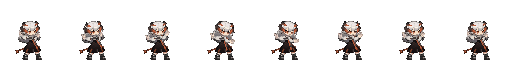
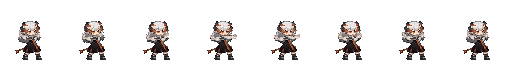
塞雷娅 S3 冲拳：按两节 IK 反算，手腕沿肩高水平直线推出（用户 10-24 嫌像捶）

diff --git a/tools/op_1x/native_extra.py b/tools/op_1x/native_extra.py
@@ -42,9 +42,11 @@ def hoshiguma():
 # 不拉长、不放大（用户：放大显得奇怪）；蓄力只收到腰前，不抬过胸（用户：举过头奇怪）。
 # 帧数 / 出手帧与普攻条相同（8 帧，第 4 帧出手），时序由 json 抄普攻的 attack_timing。
 # 每帧：(前手上臂, 前手前臂, 后手上臂, 胸, 前手提到上层) ；角度为转角增量（度）
-PUNCH = [(-45, 55, 0, 0, False), (-40, 62, 15, 4, False), (-8, 20, 25, 0, True),   # 起势：前手放到腰前（原生 Loop 站姿双手抬在脸侧，用户 10-24「第一帧还是举着双手」）
-         (-38, -2, 30, -14, True), (-36, -2, 30, -12, True), (-15, 15, 20, -5, True),
-         (-30, 40, 8, 0, False), (-45, 55, 0, 0, False)]
+# 直拳轨迹（10-24 用户「现在像是捶，不像是直拳」）：手腕沿肩高水平线直线推出，按两节 IK 反算（肩 (96, 128.4)、上臂 4.35 px、前臂 3.83 px，
+# 肘在下；转角换算见 docs/140 §7.2）。手腕 x：100.7 起势 → 99.5 收拳 → 101.6 → 104.0 打满 → 回收
+PUNCH = [(-45, 55, 0, 0, False), (-52, 75, 15, 2, False), (-33, 39, 25, -2, True),
+         (0, -30, 30, -5, True), (-5, -20, 30, -4, True), (-28, 27, 20, -2, True),
+         (-42, 51, 8, 0, False), (-45, 55, 0, 0, False)]
 GUARD = (-45, 55)   # 前手放到腰前的转角（上臂, 前臂）
 SARIA_HIDE = ["F_Shield", "F_Weapon", "F_Pinhead"]   # 盾 / 武器已放下
 SARIA_FRONT_ARM = ["F_L_Arm", "F_L_Shoulder", "F_L_Wrap", "F_L_Ring", "F_L_Hand_C", "F_L_Hand_B", "F_L_Hand", "F_L_Finger", "F_L_Finger_2"]

diff --git a/docs/140_op_anim_audit.md b/docs/140_op_anim_audit.md
@@ -121,5 +121,5 @@ python -X utf8 tools/op_1x/native_extra.py --only hoshiguma,saria               
 - **新帧条**：`op_saria_skill_s3_attack`、`op_saria_move_skill_s3_attack`。json 里时序抄普攻的 `attack_timing`，序列加 `"attack": "skill_s3_attack"`。
 - **代码**：`character._move_swap` 允许技能循环里的普攻变体（`sq_atk`）在移动中换跑动版；`_sq_atk_yield` 在变体有跑动版时不让位。
 - **结果**：录像（`build/anim_move/v2/saria_2.gif`，技能期间照常普攻、走停来回）里循环段的出拳 205 帧，其中移动中 112 帧换成跑动拳击；不出拳时站着播循环、移动播空手跑。
-- **定稿：冲拳**（用户依次反馈「看不太出来双手，能不能手往前伸」→「拳头好像太大了」→「都不要放大」→「第一帧双手举过头有点奇怪」→「拳击就改成冲拳」）：前手（左臂）直线打出，后手收到腰侧，胸口前倾 14°；打出的几帧把前臂画在白毛领上层，1 倍下能看出拳头。不拉长不放大，蓄力只收到腰前。原作 Skill_Loop 站姿双手抬在脸侧（用户：「为什么第一帧还是举着双手」），冲拳起势 / 收势、循环段、空手跑统一把前手放到腰前（上臂 -45°、前臂 +55°，`native_extra.py GUARD`），出拳前后不跳。中途试过双拳前推、手臂 ×1.3 / 拳头 ×1.4 和 ×1.1，都被否了。实机里技能晶柱特效较密，站在队长身前的博士也会挡一部分。
+- **定稿：冲拳**（用户依次反馈「看不太出来双手，能不能手往前伸」→「拳头好像太大了」→「都不要放大」→「第一帧双手举过头有点奇怪」→「拳击就改成冲拳」）：前手（左臂）直线打出，后手收到腰侧，胸口前倾 14°；打出的几帧把前臂画在白毛领上层，1 倍下能看出拳头。不拉长不放大，蓄力只收到腰前。原作 Skill_Loop 站姿双手抬在脸侧（用户：「为什么第一帧还是举着双手」），冲拳起势 / 收势、循环段、空手跑统一把前手放到腰前（上臂 -45°、前臂 +55°，`native_extra.py GUARD`），出拳前后不跳。用户「现在像是捶，不像是直拳」：原来打满那帧上臂朝下、前臂水平，拳头从腰前往上划弧；改为按两节 IK 反算，手腕沿肩高水平线直线推出（肩 (96, 128.4)，上臂 4.35 px、前臂 3.83 px，屏幕角 = 11.8° − 上臂转角，前臂相对角 = −55° − 前臂转角；起势实测与推算吻合）。中途试过双拳前推、手臂 ×1.3 / 拳头 ×1.4 和 ×1.1，都被否了。实机里技能晶柱特效较密，站在队长身前的博士也会挡一部分。
 
